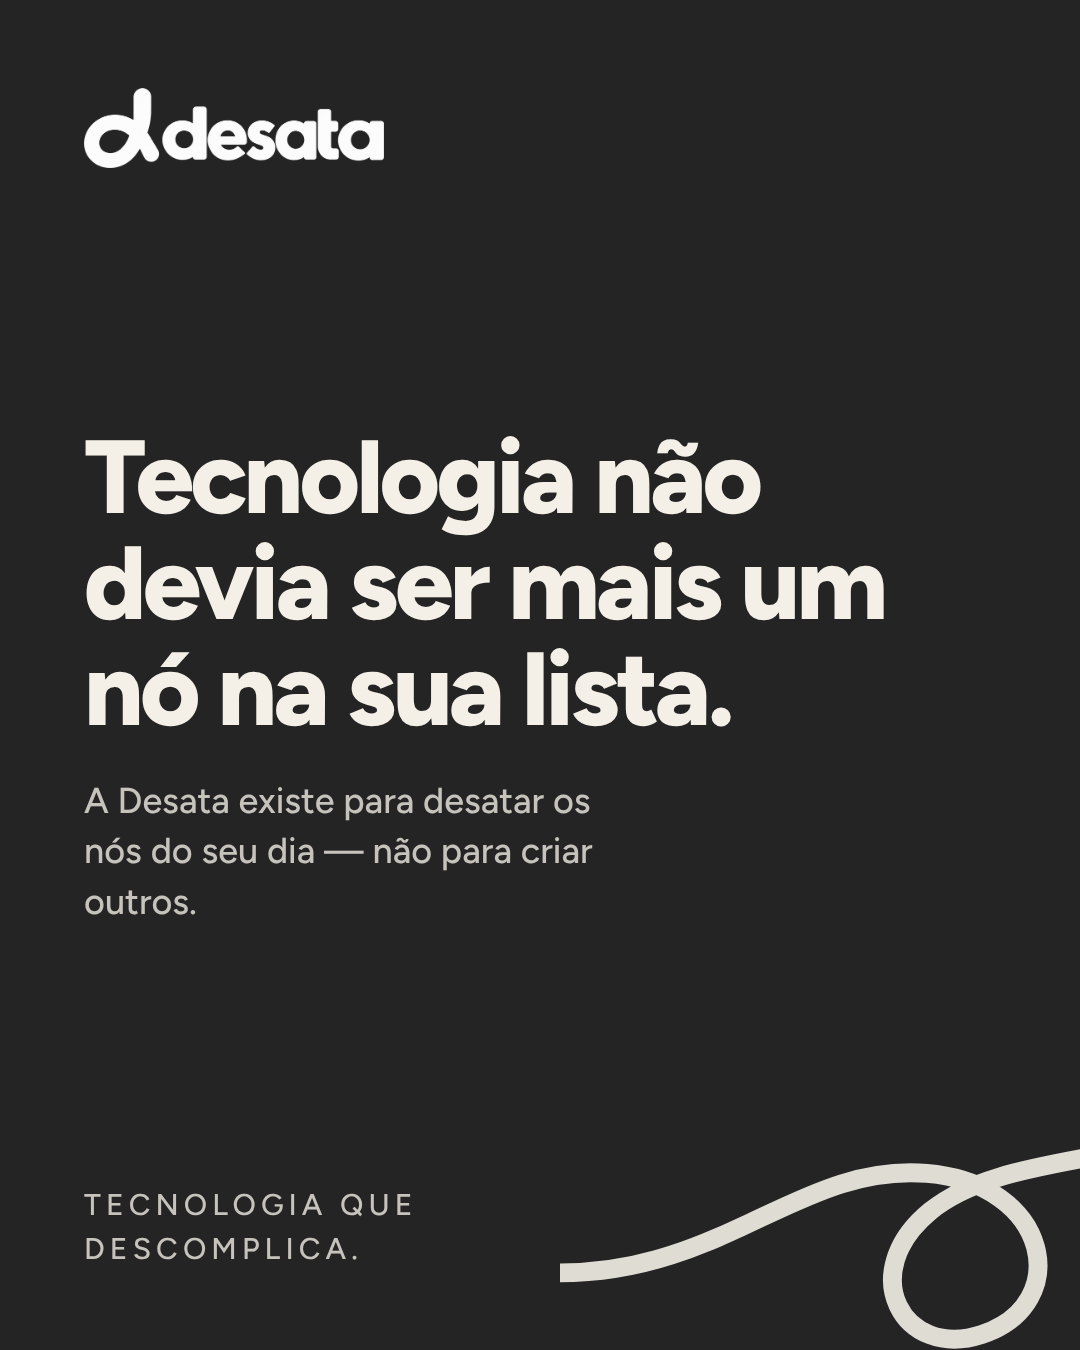
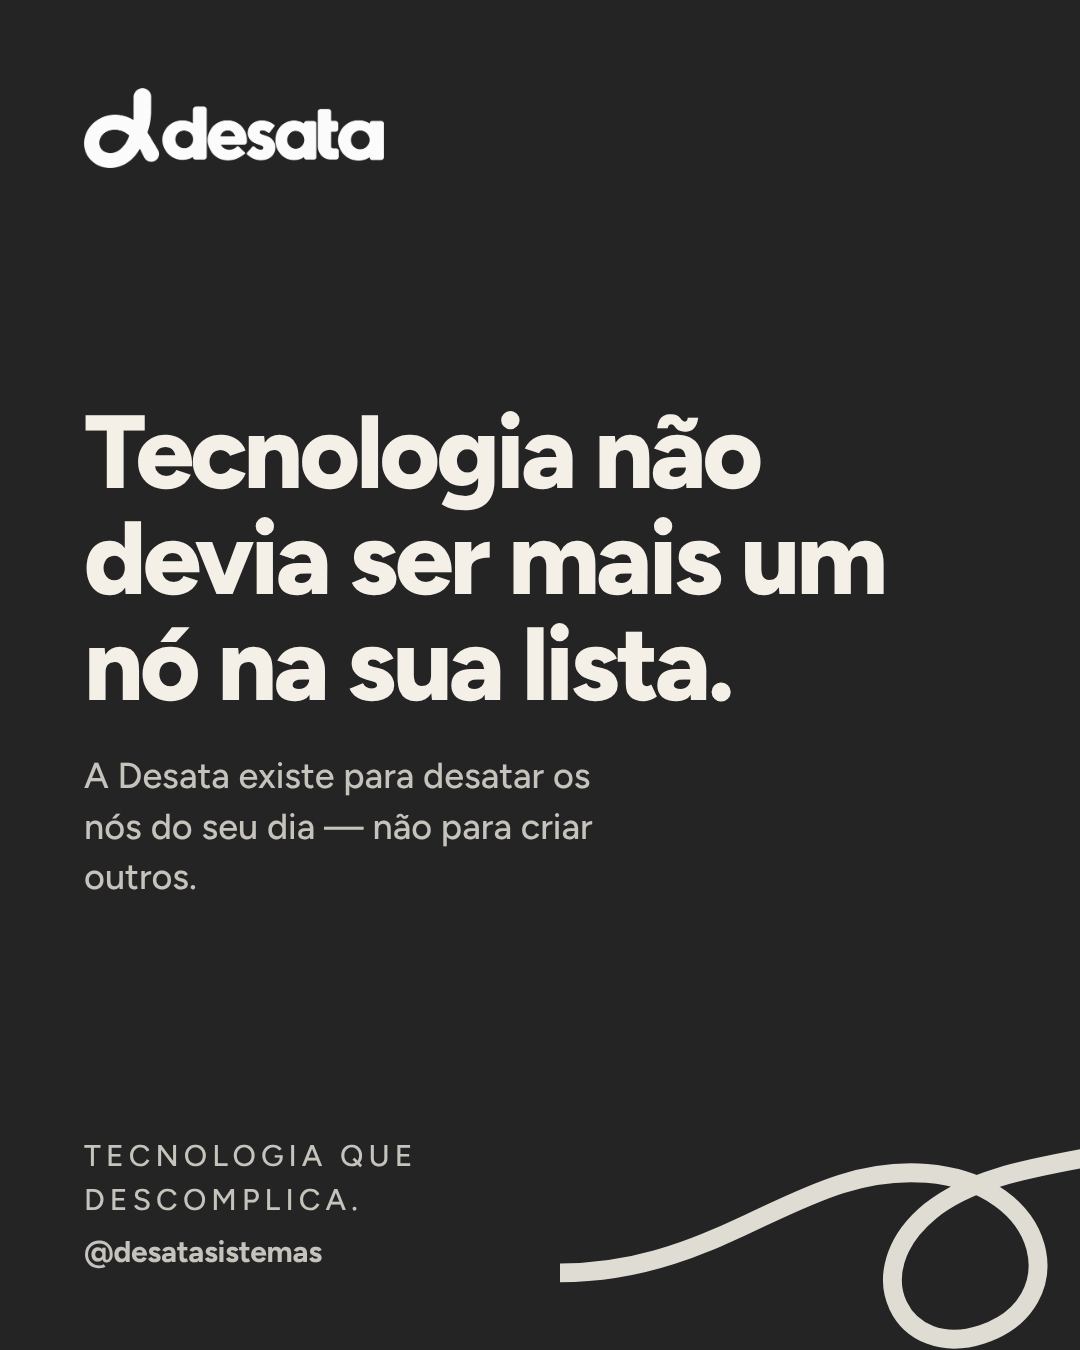
Registra o @desatasistemas
O perfil tem nome definido, então ele entra nos três lugares que dependiam
disso:

- assets/js/config.js: o rodapé do site passa a mostrar o link do Instagram,
  que estava escondido enquanto o campo era vazio;
- artes de abertura e de fecho: o @ aparece no pé;
- textos.md: a lista de sugestões de @ sai e entra o nome escolhido, com a
  observação de onde trocar caso ele esteja ocupado.

O pé das artes passa a empilhar assinatura e @ à esquerda: lado a lado, o @
caía exatamente em cima do laço.

Claude-Session: https://claude.ai/code/session_01WhLyU9cwCcQu3ZVdixgzXu

Changed region(s): [[0.0611, 0.28, 0.825, 0.6844], [0.0611, 0.84, 0.3972, 0.9333]]

diff --git a/instagram/arte.html b/instagram/arte.html
@@ -34,7 +34,8 @@ body{background:#777;font-family:'Figtree',system-ui,sans-serif;}
 .arte--escura .linha{color:var(--claro);}
 .arte--laranja .linha{color:#242424c4;}
 
-.arte__pe{position:relative;z-index:2;display:flex;align-items:flex-end;justify-content:space-between;gap:30px;flex:none;}
+.arte__pe{position:relative;z-index:2;display:flex;flex-direction:column;align-items:flex-start;
+          gap:12px;flex:none;}   /* em coluna: o @ fica longe do laço, que passa à direita */
 .assinatura{font-size:30px;letter-spacing:.17em;text-transform:uppercase;font-weight:500;color:var(--suave);line-height:1.45;}
 .arte--escura .assinatura{color:var(--claro);}
 .arte--laranja .assinatura{color:#242424b0;}
@@ -87,6 +88,7 @@ body{background:#777;font-family:'Figtree',system-ui,sans-serif;}
   </div>
   <div class="arte__pe">
     <p class="assinatura">Tecnologia que<br>descomplica.</p>
+    <p class="arroba">@desatasistemas</p>
   </div>
   <svg class="laco laco--pe" viewBox="0 0 420 300"><path d="M0 214 C 96 214, 140 150, 214 156 C 286 162, 300 232, 246 250 C 200 265, 172 214, 216 178 C 268 136, 372 158, 420 96"/></svg>
 </section>
@@ -196,6 +198,7 @@ body{background:#777;font-family:'Figtree',system-ui,sans-serif;}
   </div>
   <div class="arte__pe">
     <p class="assinatura">Chama no direct</p>
+    <p class="arroba">@desatasistemas</p>
   </div>
   <svg class="laco laco--pe" viewBox="0 0 420 300"><path d="M0 214 C 96 214, 140 150, 214 156 C 286 162, 300 232, 246 250 C 200 265, 172 214, 216 178 C 268 136, 372 158, 420 96"/></svg>
 </section>

diff --git a/assets/js/config.js b/assets/js/config.js
@@ -21,8 +21,8 @@ window.DESATA_CONFIG = {
   // E-mail de contato.
   email: "jvctrfelix@gmail.com",
 
-  // PENDENTE (opcional): perfil do Instagram, só o usuário, sem "@".
-  instagram: "",
+  // Perfil do Instagram, só o usuário, sem "@".
+  instagram: "desatasistemas",
 
   // Cidade/região de atuação, exibida no rodapé.
   local: "São José dos Campos · SP"

diff --git a/instagram/textos.md b/instagram/textos.md
@@ -21,23 +21,20 @@ borrão — o símbolo sozinho continua legível.
 Testei os quatro reduzidos a 32px: todos continuam reconhecíveis.
 
 ### Nome (o campo "Nome", não o @)
-Esse campo entra na busca do Instagram. Não desperdice com "Desata" puro:
+Esse campo entra na busca do Instagram, e o @ já diz "sistemas" — então use o
+campo Nome para o que o @ não cobre:
 
 ```
-Desata · Sites e sistemas
+Desata · Sites e sistemas sob medida
 ```
 
 ### @ (nome de usuário)
-Não sei quais estão livres — confira na hora de criar. Em ordem de preferência:
-
-| @ | Por quê |
-|---|---|
-| `desata.dev` | Curto, diz a área, fácil de falar em voz alta. |
-| `usedesata` | Vira verbo, combina com a marca. |
-| `desata.sites` | O que você vende hoje aparece no @. |
-| `desata.digital` | Última opção: "digital" é genérico. |
-
-Evite número e sublinhado: ninguém acerta de primeira ao digitar.
+```
+@desatasistemas
+```
+Já está nas artes de fecho e no rodapé do site. Se ele estiver ocupado na hora
+de criar, me avise: tenho de trocar em três lugares (artes, `config.js` do site
+e este arquivo).
 
 ### Bio
 

diff --git a/instagram/README.md b/instagram/README.md
@@ -1,6 +1,6 @@
 # Instagram da Desata
 
-Artes e textos para abrir o perfil. O que escrever — bio, @, legendas e a ordem
+Artes e textos do perfil **@desatasistemas**. O que escrever — bio, @, legendas e a ordem
 de postagem — está em [`textos.md`](textos.md).
 
 ```bash
